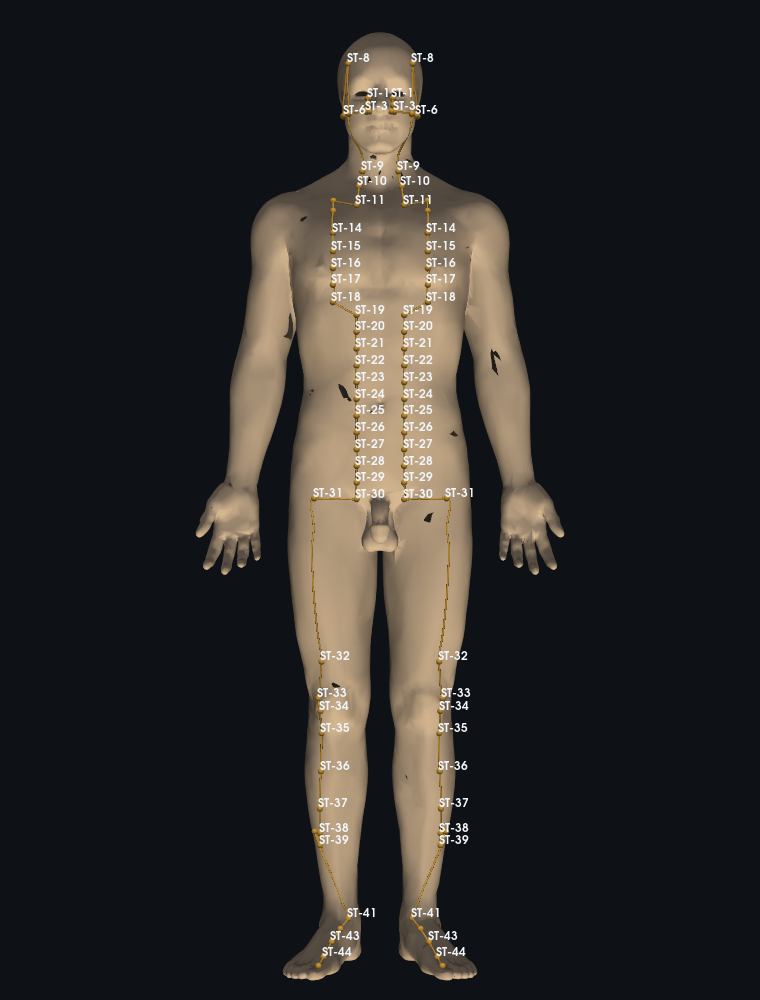
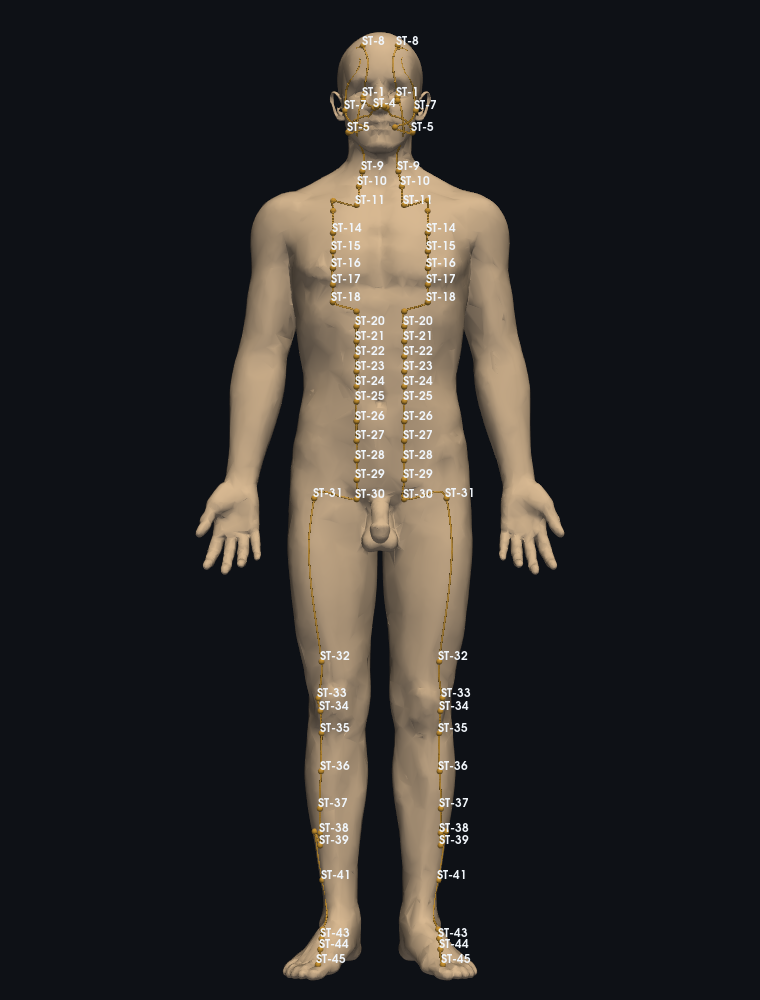
Meridiany jako krzywe Beziera zamiast odcinkow prostych
Kanal rysowany od punktu do punktu wygladal jak lamana. Teraz linie prowadzi
splajn Catmulla-Roma zapisany jako lancuch szesciennych krzywych Beziera -
w odroznieniu od zwyklego Beziera taki splajn przechodzi przez wezly, a wezlami
sa punkty akupunkturowe, wiec krzywa nie moze ich omijac.

Parametryzacja dosrodkowa (alpha 0.5), bo odstepy miedzy punktami wahaja sie od
1 cun do kilkunastu centymetrow, a przy rownomiernej takie nierownosci daja
petle i ostrza.

Po zrzutowaniu na skore krzywa jest wygladzana z drgan rzutowania (wezly
przypiete), a ponowne rzutowanie robimy tylko dla tych 5% probek, ktore ruszyly
sie o wiecej niz milimetr - stad 5.3s -> 3.1s na przeliczenie wszystkich kanalow.

Wezly sa na koniec przypinane dokladnie do polozen punktow: maksymalne
odchylenie punktu od wlasnej krzywej wynosi 0.000 mm.

Podglad w oknie nie splajnuje juz krzywej po raz drugi (pv.Spline odciagalo ja
od powierzchni), tylko robi rurke wprost z probek. Policzone krzywe ladują w
pamieci podrecznej na dysku - start aplikacji 7.5s przy pierwszym uruchomieniu,
3.1s przy kolejnych.

diff --git a/acu3d/model.py b/acu3d/model.py
@@ -6,6 +6,7 @@ jako zapasowy, gdy nie ma pobranych zasobow.
 """
 from __future__ import annotations
 
+import hashlib
 import json
 import warnings
 from pathlib import Path
@@ -13,7 +14,7 @@ from pathlib import Path
 import numpy as np
 import pyvista as pv
 
-from . import anchors
+from . import anchors, curves
 from .anatomy import Anatomy
 from .geometry import build_layers
 from .rig import Rig
@@ -49,6 +50,7 @@ class Atlas:
         self.paths = json.loads((DATA / "meridians.json").read_text(encoding="utf-8"))["paths"]
         self.markers = self._resolve_markers()
         self.by_key = {m["key"]: m for m in self.markers}
+        self._curves = None
 
     # --- rozwiazywanie punktow ------------------------------------------
     def _ref_point(self, anchor: dict, pos: np.ndarray) -> np.ndarray:
@@ -121,8 +123,59 @@ class Atlas:
         return markers
 
     # --- meridiany -------------------------------------------------------
+    PER_SEGMENT = 14        # ile probek krzywej miedzy sasiednimi punktami
+
+    def _cache_path(self):
+        h = hashlib.md5()
+        for name in ("points.json", "meridians.json", "rig_fitted.json"):
+            f = DATA / name
+            if f.exists():
+                h.update(f.read_bytes())
+        h.update(f"{self.mode}-{self.PER_SEGMENT}".encode())
+        return READY / f"meridians_{h.hexdigest()[:12]}.npz"
+
+    def _load_curves(self) -> dict:
+        """Krzywe zaleza tylko od danych, wiec liczymy je raz i trzymamy na dysku."""
+        path = self._cache_path()
+        if path.exists():
+            try:
+                with np.load(path) as z:
+                    out = {}
+                    for k in z.files:
+                        ch, side, _ = k.split("|")
+                        out.setdefault((ch, side), []).append(z[k])
+                    return out
+            except Exception:
+                pass
+        out = {}
+        for ch in self.channels:
+            for side in ("R", "L"):
+                out[(ch, side)] = self._build_meridian(ch, side)
+        try:
+            READY.mkdir(parents=True, exist_ok=True)
+            for old in READY.glob("meridians_*.npz"):
+                old.unlink()
+            np.savez_compressed(path, **{f"{ch}|{side}|{i}": arr
+                                         for (ch, side), lines in out.items()
+                                         for i, arr in enumerate(lines)})
+        except Exception:
+            pass
+        return out
+
     def meridian_lines(self, channel: str, side: str = "R") -> list:
-        """Polilinie przebiegu kanalu, oblepione na powierzchni ciala."""
+        if self._curves is None:
+            self._curves = self._load_curves()
+        return self._curves.get((channel, side), [])
+
+    def _build_meridian(self, channel: str, side: str = "R") -> list:
+        """Przebiegi kanalu jako gladkie krzywe oblepione na powierzchni ciala.
+
+        Kanal nie biegnie lamana od punktu do punktu, wiec zamiast odcinkow
+        prowadzimy splajn Catmulla-Roma (lancuch krzywych Beziera). Splajn
+        przechodzi przez wezly, a po zrzutowaniu na skore wezly sa jeszcze raz
+        przypinane dokladnie do polozen punktow - krzywa ma je laczyc, a nie
+        przesuwac.
+        """
         lines = []
         for group in self.paths.get(channel, []):
             pts, refs = [], []
@@ -134,14 +187,25 @@ class Atlas:
                 refs.append(m["ref"])
             if len(pts) < 2:
                 continue
-            dense_p, dense_r = [], []
-            for i in range(len(pts) - 1):
-                for f in np.linspace(0.0, 1.0, 7, endpoint=False):
-                    dense_p.append(pts[i] * (1 - f) + pts[i + 1] * f)
-                    dense_r.append(refs[i] * (1 - f) + refs[i + 1] * f)
-            dense_p.append(pts[-1])
-            dense_r.append(refs[-1])
-            lines.append(self._hug(np.array(dense_r), np.array(dense_p)))
+            P, R = np.array(pts), np.array(refs)
+            dense_p, dense_r = curves.sample_pair(P, R, self.PER_SEGMENT)
+            nodes = np.arange(len(P)) * self.PER_SEGMENT
+            nodes[-1] = len(dense_p) - 1
+            pinned = np.zeros(len(dense_p), dtype=bool)
+            pinned[nodes] = True
+
+            hug = self._hug(dense_r, dense_p)
+            smoothed = curves.relax(hug, pinned)     # zdejmij drgania po rzutowaniu
+            # Wygladzanie rusza wiekszosc probek o ulamek milimetra - te zostawiamy.
+            # Rzutujemy ponownie tylko tam, gdzie ruch byl duzy, czyli gdzie promien
+            # wczesniej uciekl i krzywa naprawde zeszla ze skory.
+            moved = np.linalg.norm(smoothed - hug, axis=1) > 0.001
+            if moved.any():
+                idx = np.flatnonzero(moved)
+                smoothed[idx] = self._hug(dense_r[idx], smoothed[idx])
+            hug = smoothed
+            hug[nodes] = P                           # wezly dokladnie w punktach
+            lines.append(hug)
         return lines
 
     def _hug(self, refs: np.ndarray, pts: np.ndarray) -> np.ndarray:

diff --git a/acu3d/curves.py b/acu3d/curves.py
@@ -1,0 +1,92 @@
+"""Gladkie przebiegi kanalow: krzywe Beziera przechodzace przez punkty.
+
+Kanal narysowany odcinkami prostymi wyglada jak lamana, a biegnie plynnie.
+Uzywamy splajnu Catmulla-Roma zapisanego jako lancuch szesciennych krzywych
+Beziera - w odroznieniu od zwyklego Beziera taki splajn PRZECHODZI przez wezly,
+a wezly to punkty akupunkturowe, wiec krzywa nie moze ich omijac.
+
+Parametryzacja dosrodkowa (alpha = 0.5) zamiast rownomiernej ma tu znaczenie
+praktyczne: odstepy miedzy punktami wahaja sie od 1 cun do kilkunastu centymetrow,
+a przy rownomiernej parametryzacji tak nierowne odcinki daja petle i ostrza.
+"""
+from __future__ import annotations
+
+import numpy as np
+
+ALPHA = 0.5          # 0 = rownomierna, 0.5 = dosrodkowa, 1 = cieciwowa
+TENSION = 1.0        # 1 = pelne wybrzuszenie, 0 = odcinki proste
+
+
+def _knots(points: np.ndarray, alpha: float) -> np.ndarray:
+    d = np.linalg.norm(np.diff(points, axis=0), axis=1)
+    d = np.maximum(d, 1e-9) ** alpha
+    return np.concatenate([[0.0], np.cumsum(d)])
+
+
+def bezier_segments(points: np.ndarray, alpha: float = ALPHA,
+                    tension: float = TENSION) -> list:
+    """Lancuch segmentow Beziera (P0, C1, C2, P3) przechodzacy przez `points`."""
+    P = np.asarray(points, dtype=float)
+    if len(P) < 2:
+        return []
+    if len(P) == 2:
+        return [(P[0], P[0] + (P[1] - P[0]) / 3, P[1] - (P[1] - P[0]) / 3, P[1])]
+    # konce przedluzamy odbiciem, zeby pierwszy i ostatni odcinek tez mial styczna
+    ext = np.vstack([2 * P[0] - P[1], P, 2 * P[-1] - P[-2]])
+    t = _knots(ext, alpha)
+    out = []
+    for i in range(1, len(ext) - 2):
+        p0, p1, p2, p3 = ext[i - 1], ext[i], ext[i + 1], ext[i + 2]
+        t0, t1, t2, t3 = t[i - 1], t[i], t[i + 1], t[i + 2]
+        dt = t2 - t1
+        m1 = (p2 - p0) / max(t2 - t0, 1e-9)      # styczna w p1
+        m2 = (p3 - p1) / max(t3 - t1, 1e-9)      # styczna w p2
+        c1 = p1 + m1 * dt / 3.0 * tension
+        c2 = p2 - m2 * dt / 3.0 * tension
+        out.append((p1, c1, c2, p2))
+    return out
+
+
+def sample(points: np.ndarray, per_segment: int = 14, alpha: float = ALPHA,
+           tension: float = TENSION) -> np.ndarray:
+    """Gesto probkowana krzywa. Wezly wejsciowe leza dokladnie na wyniku."""
+    segs = bezier_segments(points, alpha, tension)
+    if not segs:
+        return np.asarray(points, dtype=float)
+    u = np.linspace(0.0, 1.0, per_segment, endpoint=False)[:, None]
+    out = []
+    for p0, c1, c2, p3 in segs:
+        b = ((1 - u) ** 3 * p0 + 3 * (1 - u) ** 2 * u * c1
+             + 3 * (1 - u) * u ** 2 * c2 + u ** 3 * p3)
+        out.append(b)
+    out.append(np.asarray(segs[-1][3])[None, :])
+    return np.vstack(out)
+
+
+def sample_pair(points: np.ndarray, refs: np.ndarray, per_segment: int = 14,
+                alpha: float = ALPHA, tension: float = TENSION):
+    """Krzywa punktow i rownolegla krzywa punktow odniesienia (wnetrze ciala).
+
+    Obie probkowane tak samo, wiec i-ta probka jednej odpowiada i-tej drugiej -
+    dzieki temu kazda probke mozna potem wypchnac na skore wzdluz jej wlasnej
+    normalnej, a nie wzdluz jednego, wspolnego kierunku.
+    """
+    return (sample(points, per_segment, alpha, tension),
+            sample(refs, per_segment, alpha, tension))
+
+
+def relax(curve: np.ndarray, pinned: np.ndarray, rounds: int = 2,
+          weight: float = 0.5) -> np.ndarray:
+    """Wygladza drgania powstale przy rzutowaniu na skore.
+
+    Probki miedzywezlowe usredniamy z sasiadami, ale wezly (czyli punkty
+    akupunkturowe) zostaja przypiete - krzywa ma je laczyc, a nie wygladzac.
+    """
+    c = np.array(curve, dtype=float, copy=True)
+    if len(c) < 3:
+        return c
+    for _ in range(rounds):
+        inner = 0.5 * (c[:-2] + c[2:])
+        free = ~pinned[1:-1]
+        c[1:-1][free] = (1 - weight) * c[1:-1][free] + weight * inner[free]
+    return c

diff --git a/acu3d/viewer.py b/acu3d/viewer.py
@@ -114,7 +114,9 @@ class Viewer:
             for side in ("R", "L"):
                 for poly in a.meridian_lines(ch, side):
                     if len(poly) > 3:
-                        lines.append(pv.Spline(poly, len(poly) * 3).tube(radius=r * 0.33))
+                        # krzywa jest juz gladka i lezy na skorze - drugi splajn
+                        # tylko odciagnalby ja od powierzchni
+                        lines.append(pv.lines_from_points(poly).tube(radius=r * 0.33))
                 if info["clock"] >= 13:              # REN / DU sa pojedyncze
                     break
             if lines:

diff --git a/README.md b/README.md
@@ -32,6 +32,21 @@ i stąd BL-23 ląduje 1,5 cun od linii pośrodkowej, a BL-52 3 cun, obydwa na wy
 
 Konsekwencja praktyczna: **wymiana modelu ciała nie unieważnia żadnej z 361 kotwic.**
 
+## Przebiegi kanałów
+
+Kanał nie biegnie łamaną od punktu do punktu, więc linie prowadzi splajn
+Catmulla-Roma zapisany jako łańcuch sześciennych krzywych Béziera. W odróżnieniu
+od zwykłego Béziera taki splajn **przechodzi przez węzły** — a węzłami są punkty
+akupunkturowe, więc krzywa nie może ich omijać (sprawdzane: maksymalne odchylenie
+0,000 mm). Parametryzacja dośrodkowa zamiast równomiernej ma tu znaczenie: odstępy
+między punktami wahają się od 1 cun do kilkunastu centymetrów, a przy równomiernej
+takie nierówności dają pętle i ostrza.
+
+Gotowa krzywa jest rzutowana na skórę, wygładzana z drgań rzutowania i ponownie
+rzutowana — ale tylko w tych 5% próbek, które wygładzanie ruszyło o więcej niż
+milimetr. Wyniki lądują w pamięci podręcznej, więc kolejne uruchomienia startują
+w około 3 sekundy zamiast 7.
+
 ## Warstwy
 
 ![Skóra, mięśnie, kości](docs/warstwy.png)
